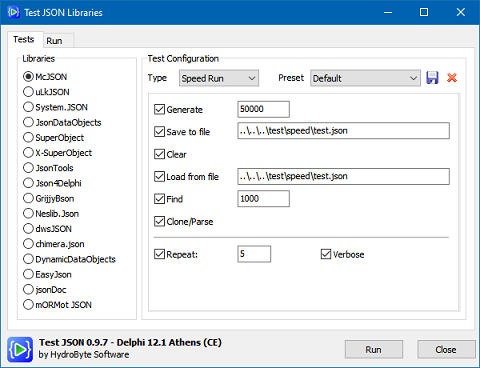
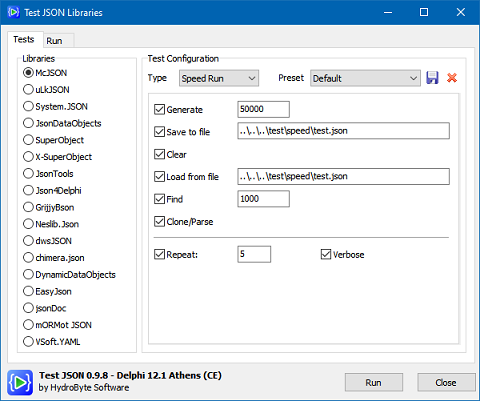
Update results for VSoft.YAML.

Changed region(s): [[0.0, 0.0, 1.0, 1.0], [0.2812, 0.1196, 0.9688, 0.7174]]

diff --git a/README.md b/README.md
@@ -27,6 +27,7 @@ Library          | Delphi | C++Builder |
 [EasyJson](https://github.com/tinyBigGAMES/EasyJson)                                       | ✓ |   |
 [jsonDoc](http://github.com/stijnsanders/jsonDoc#jsonDoc)                                  | ✓ |   |
 [mORMot2](https://github.com/synopse/mORMot2/tree/master/src/core)                         | ✓ |   |
+[VSoft.YAML](https://github.com/VSoftTechnologies/VSoft.YAML)                              | ✓ |   |
 
 Note: in order of inclusion.
 
@@ -68,7 +69,7 @@ This is a performance test with the following configuration (select `Default` in
 
 Library             | Generate  | Save     | Load     | Find     | Parse    | [Total]   | Memory    | Pitfalls |
 :-------------------|----------:|---------:|---------:|---------:|---------:|----------:|----------:|---------:|
-`JsonDataObjects`   |     .04 s |    .02 s |    .02 s |    .01 s |    .03 s |    0.17 s |  9.08 MiB | Leaks    |
+`JsonDataObjects`   |     .04 s |    .02 s |    .02 s |    .01 s |    .03 s |    0.17 s |  9.08 MiB | Leaks*   |
 `Neslib.Json`       |     .03 s |    .03 s |    .03 s |    .00 s |    .04 s |    0.18 s | 10.19 MiB |          |  
 `Grijjy.Bson`       |     .03 s |    .04 s |    .04 s |    .00 s |    .06 s |    0.23 s |  7.52 MiB |          |
 `mORMot2`           |     .02 s |    .01 s |    .02 s |    .12 s |    .02 s |    0.23 s |  7.91 MiB |          |
@@ -77,6 +78,7 @@ Library             | Generate  | Save     | Load     | Find     | Parse    | [T
 `System.JSON`       |     .02 s |    .01 s |    .06 s |    .22 s |    .06 s |    0.43 s | 11.38 MiB |          |
 `EasyJson`          |     .02 s |    .01 s |    .06 s |    .23 s |    .07 s |    0.45 s | 11.38 MiB |          |  
 `LkJson`            |     .06 s |    .05 s |    .10 s |    .01 s |    .14 s |    0.45 s |  2.99 MiB |          |
+`VSoft.YAML`        |     .04 s |    .08 s |    .14 s |    .00 s |    .19 s |    0.53 s |  7.94 MiB |          |
 `JsonDoc`           |     .30 s |    .13 s |    .16 s |    .01 s |    .46 s |    1.13 s |  6.14 MiB |          |
 `SuperObject`       |     .13 s |   1.21 s |    .05 s |    .00 s |    .06 s |    1.53 s |  9.68 MiB |          |
 `dwsJSON`           |     .01 s |    .01 s |   0.92 s |    .03 s |   0.91 s |    1.92 s |  9.88 MiB |          |
@@ -85,7 +87,8 @@ Library             | Generate  | Save     | Load     | Find     | Parse    | [T
 `DynamicDataObjects`|   28.73 s |    .02 s |  30.24 s |    .58 s |  29.25 s |   88.88 s | 11.51 MiB |          |
 `X-SuperObject`     |  5.18 min |    .06 s | 1.77 min |   6.18 s | 1.76 min |  8.81 min | 11.48 MiB |          |
 
-Notes: 
+Notes:
+- Leaks memory in `TFormMain.RunTest` as `TLibJDO.Destroy` is not been called (something related to `TInterfacedObject`?). 
 - See [Conclusions](#Conclusions) about the `EasyJson` and `System.JSON`.
 - See [Know issues](#know-issues) about the incomplete test for `JsonTools`.
 
@@ -102,19 +105,6 @@ Library          | Generate  | Save     | Load     | Find     | Parse    | Total
 
 Notes: 
 - See [Know issues](#know-issues) about the incomplete test for `JsonTools`.
-
-
-## Scaling test
-Here are some results just for the `Generate` sub-test increasing `N` using `C++Builder` project.
-
-Library          | 1k        | 5k       | 10k      | 25k      | 50k     |
-:----------------|----------:|---------:|---------:|---------:|--------:|
-`McJSON`         |     .01 s |    .02 s |    .03 s |    .05 s |   .10 s |
-`LkJson`         |     .01 s |    .02 s |    .04 s |    .10 s |   .17 s |
-`System.JSON`    |     .01 s |    .09 s |    .04 s |    .07 s |   .12 s |
-`JsonDataObjects`|     .01 s |    .08 s |    .26 s |   2.76 s | 15.55 s |
-`JsonTools`      |     .02 s |    .12 s |    .43 s |   5.51 s | 23.87 s |
-`Json4Delphi`    |     .01 s |    .02 s |    .03 s |    .06 s |   .11 s |
 
 
 ## Validation test
@@ -142,8 +132,9 @@ Library             | Expected to Fail but Passed                      | Expecte
 `EasyJson`          |                                         fail(07) |                  pass(04, 05) |
 `JsonDoc`           |                                 fail(15, 20, 21) |          pass(01, 02, 04, 05) |
 `mORMot2`           |             fail(01, 07, 10, 11, 15, 18, 19, 21) |                  pass(04, 05) |
+`VSoft.YAML`        |                                                - |                             - |
 
-### Results with C++Builder1
+### Results with C++Builder
 
 Library          | Expected to Fail but Passed          | Expected to Pass but Failed   |
 :----------------|-------------------------------------:|------------------------------:|
@@ -212,6 +203,7 @@ Library             |  Memory | Factor    | Load Time | Pitfalls          |
 `X-SuperObject`     | 10388.4 |       10x |    121.80 | ToString fails    |
 `Json4Delphi`       |  9505.3 |       10x |    243.60 |                   |
 `chimera.json`      | 12086.7 |       12x |    915.60 |                   |
+`VSoft.YAML`        | 19845.2 |       19x |    177.80 |                   |
 `JsonTools`         |       - |         - |         - | Load file fails   |
 `mORMot2`           |       - |         - |         - | Load file fails   |
 
@@ -230,26 +222,26 @@ In general, `JsonDoc` might be considered the best library in respect of memory 
 ## Conclusions
 1. All `Speed Run` tests with `Delphi` version are twice as fast as with `C++Builder`.
 
-2. For JSON structures with less than 5000 objects, the choice of libraries can be screened not only based on performance. Standard/Compiler compatibility and ease of use should have priority in terms of choice criterion.
+2. `JsonDataObjects` is the fastest library tested until now, closely followed `Neslib.Json`, `Grijjy.Bson` and `mORMot2` (technical draw). But `JsonDataObjects` is leaking memory in all tests.
 
-3. Considering JSON files with a larger amount of data, there are significant differences in terms of memory consumption and loading time. The positive highlight is `JsonDoc`.
+3. The `Validation` tests can demonstrate that even the most modern libraries can have occasional small violations against the standard. Total clear for `McJSON`, `JsonDataObjects` and `VSoft.YAML`.
 
-4. `JsonDataObjects` is the fastest library tested until now, closely followed `Neslib.Json`, `Grijjy.Bson` and `mORMot2` (technical draw). But `JsonDataObjects` is leaking memory in all tests.
+4. The `Open File` tests using a file slightly larger than most common JSON uses demonstrate significant variation in terms of loading time and allocation factor.
 
-5. `LkJson` has great performance and the lowest memory consumption among all tested libraries in `Speed` tests. Maybe something related to the `key:value` using small strings. This has a different benchmark in `Open File` tests. Some changes are needed to use it with Delphi and C++Builder 10.2 in order to save and load UTF-8 encoded files. For some, an obstacle can be that their interfaces are more verbose for C++ usage. For example:
+5. Considering JSON files with a larger amount of data, there are significant differences in terms of memory consumption and loading time. The positive highlight is `JsonDoc`.
+
+6. For JSON structures with less than 5000 objects, the choice of libraries can be screened not only based on performance. Standard/Compiler compatibility and ease of use should have priority in terms of choice criterion.
+
+7. For older versions of `Delphi` and `C++Builder`, the `McJSON` library can be a good choice in terms of compatibility, ease of use and good performance.
+
+8. This project demonstrates some of the facilities and obstacles encountered by C++Builder developers in using libraries developed for Delphi.
+
+9. `EasyJson` uses `System.JSON` internally, so it is expected to see similar results.
+
+10. `LkJson` has great performance and the lowest memory consumption among all tested libraries in `Speed` tests. Maybe something related to the `key:value` using small strings. This has a different benchmark in `Open File` tests. Some changes are needed to use it with Delphi and C++Builder 10.2 in order to save and load UTF-8 encoded files. For some, an obstacle can be that their interfaces are more verbose for C++ usage. For example:
 ````cpp
 JsonP = dynamic_cast<TlkJSONObject*>(TlkJSON::ParseText(TlkJSON::GenerateText(Json)))
 ````
-6. The `Validation` tests can demonstrate that even the most modern libraries can have occasional small violations against the standard. Total clear for `McJSON` and `JsonDataObjects`.
-
-7. The `Open File` tests using a file slightly larger than most common JSON uses demonstrate significant variation in terms of loading time and allocation factor.
-
-8. For older versions of `Delphi` and `C++Builder`, the `McJSON` library can be a good choice in terms of compatibility, ease of use and good performance.
-
-9. This project demonstrates some of the facilities and obstacles encountered by C++Builder developers in using libraries developed for Delphi.
-
-10. `EasyJson` uses `System.JSON` internally, so it is expected to see similar results.
-
 
 ## Know issues
 - `TgoBsonDocument.LoadFromJsonFile()` failed.
